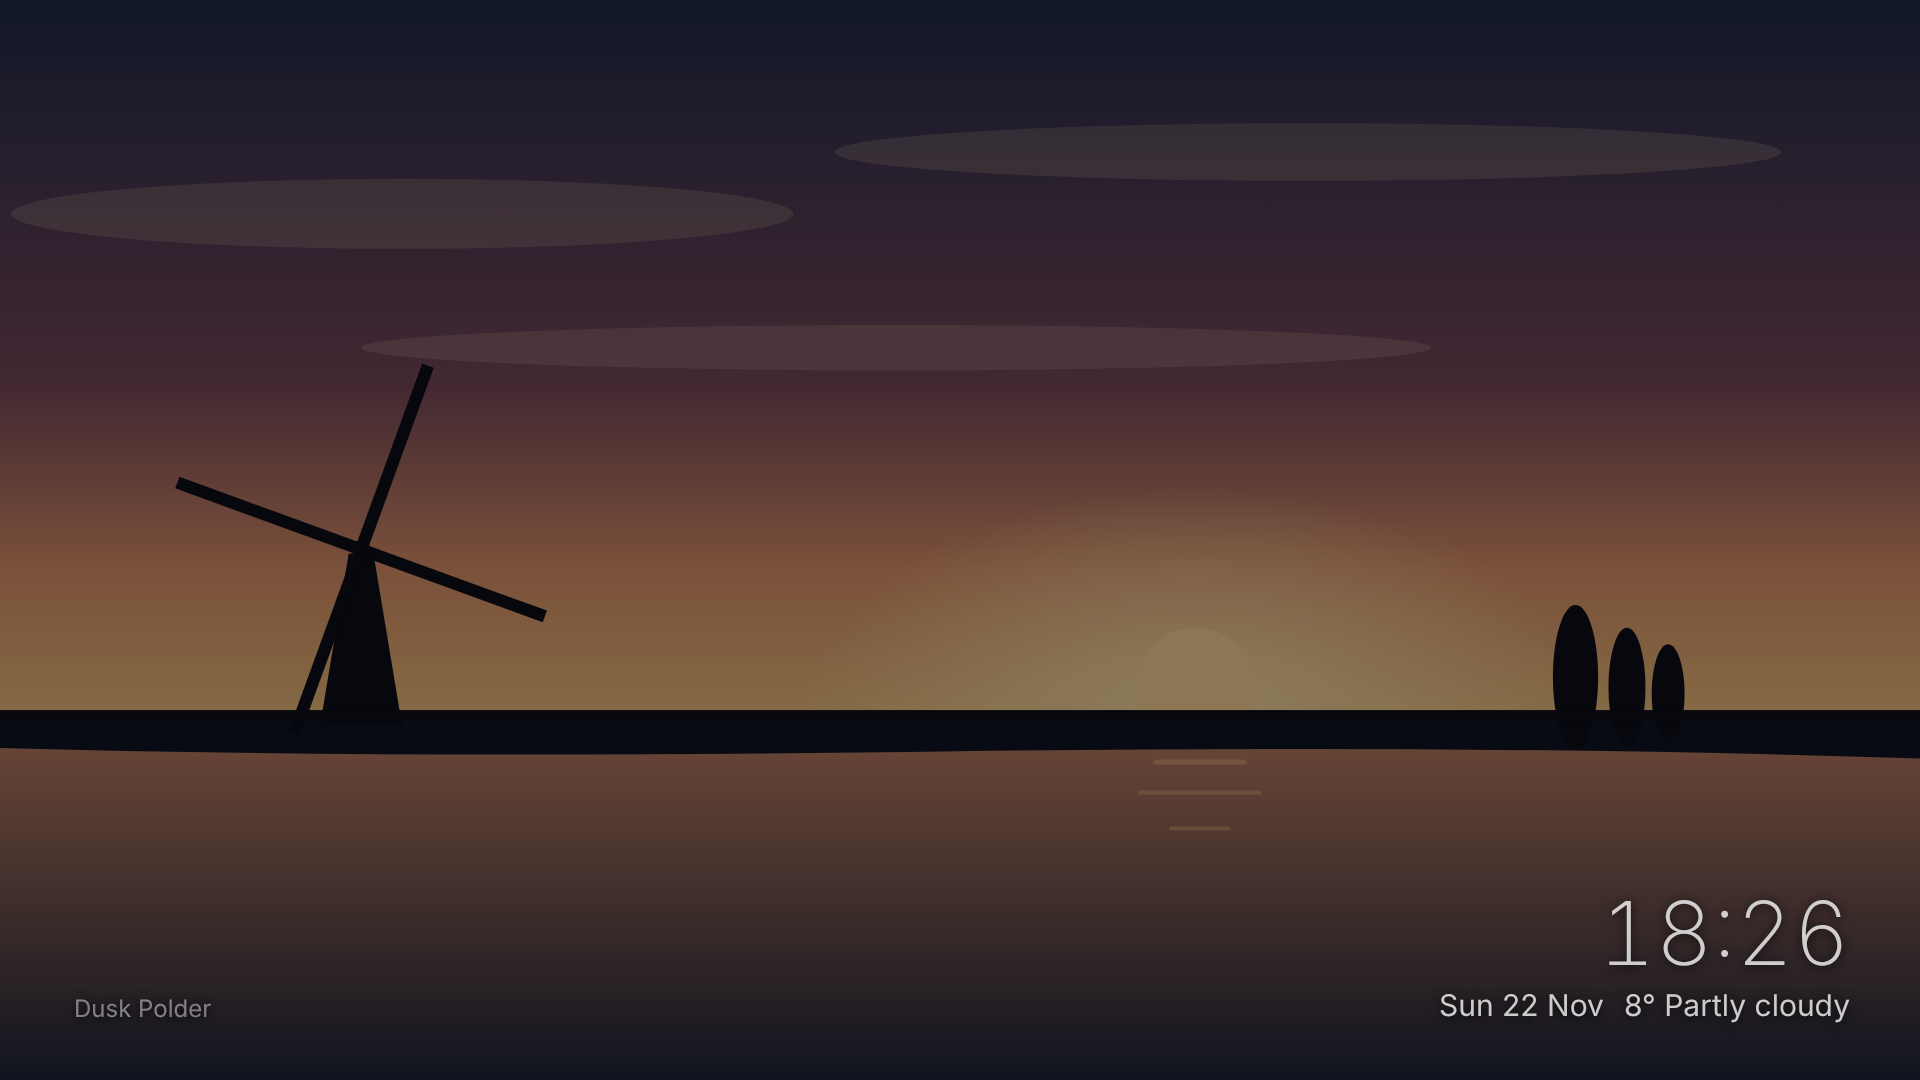
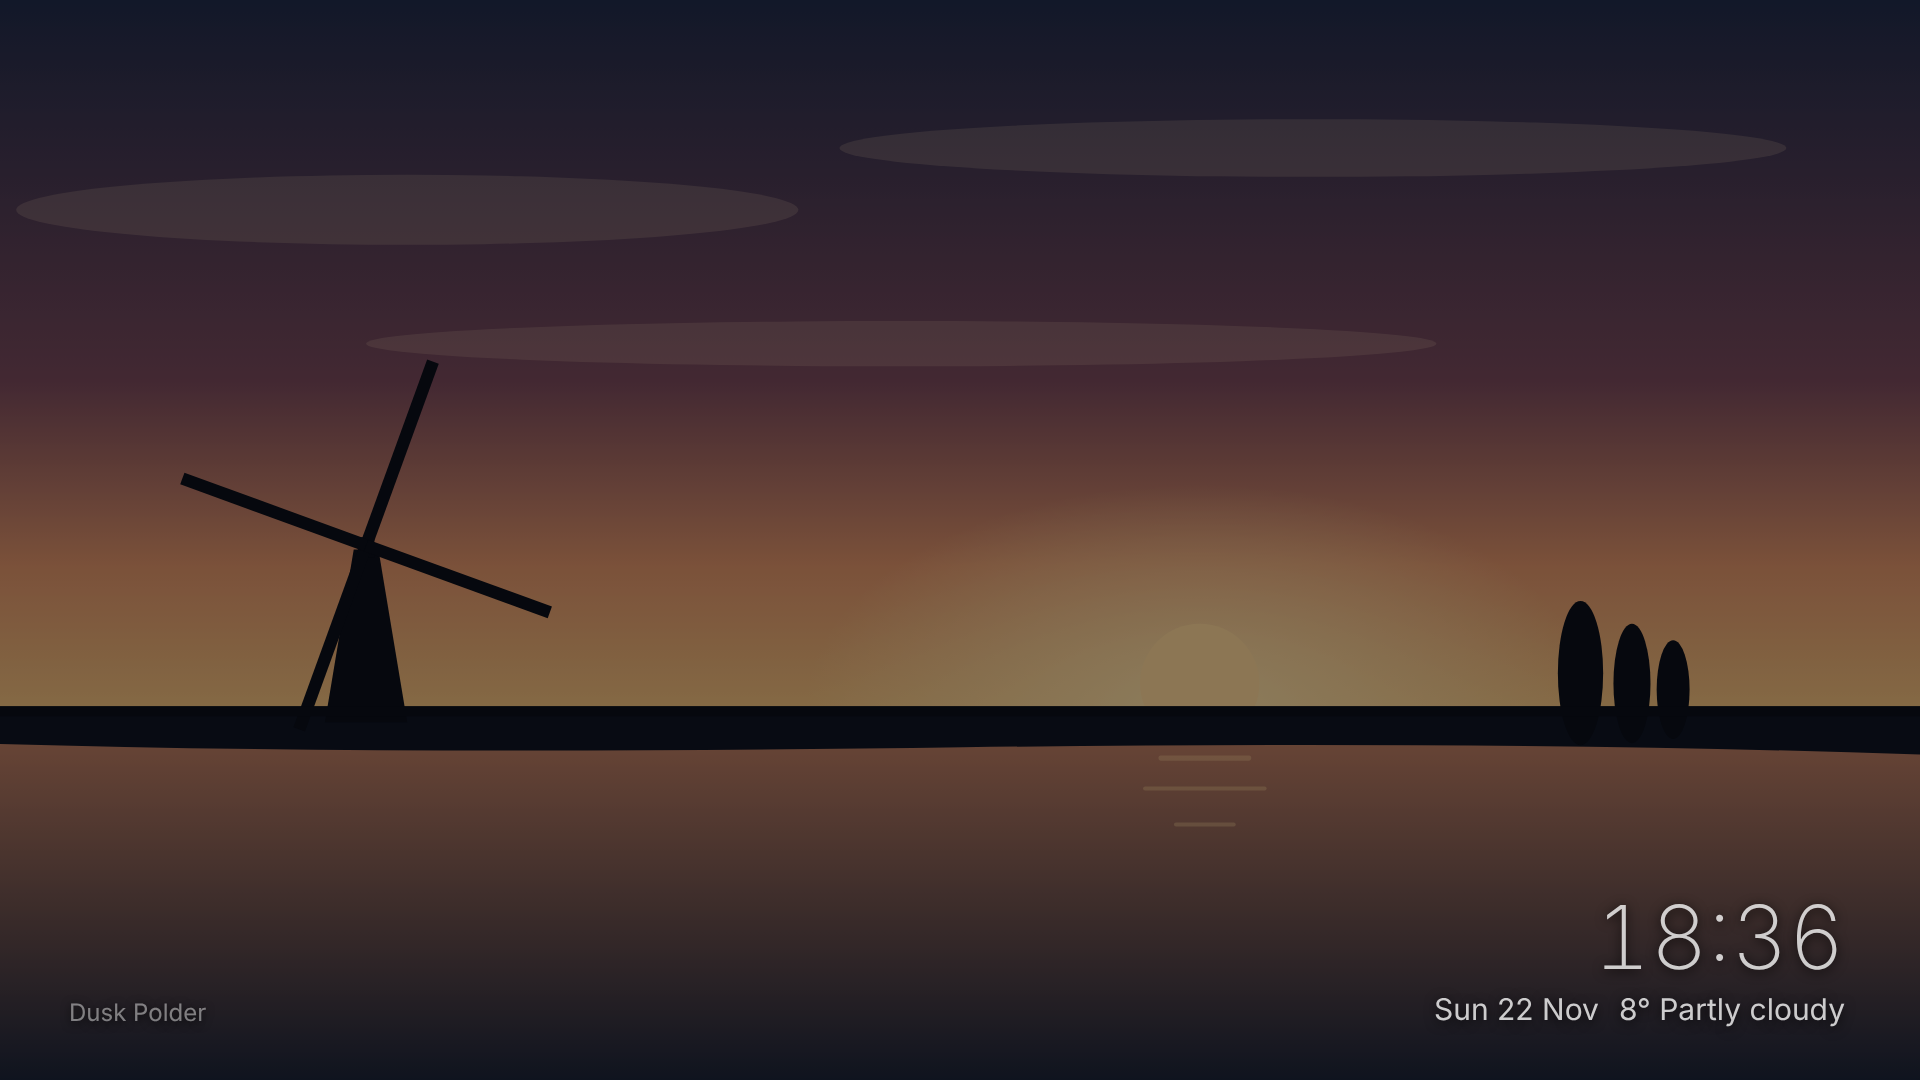
Support screen mirroring: scaled 1920x1080 stage, installable full-screen TV page
The TV mirrors screens rather than casting tabs, so the TV page must fill any
device screen. Adds a fixed stage scaled to fit, a web manifest with icons,
tap-to-fullscreen with landscape lock, a screen wake lock, and README steps
for an old Android phone host (Termux), Linux Miracast and HDMI.

Claude-Session: https://claude.ai/code/session_01BjtVTaiWrbP6wyBnvxZG4n

diff --git a/public/tv/tv.js b/public/tv/tv.js
@@ -209,7 +209,33 @@ document.addEventListener('keydown', (e) => {
   if (is(k, 'BACK')) e.preventDefault();   // don't let Back close the app/tab by accident
 });
 
-window.addEventListener('resize', () => notes.resize());
+// Scale the 1920x1080 stage to fit any screen: TV, laptop window or a phone being mirrored.
+function fitStage() {
+  const s = Math.min(innerWidth / 1920, innerHeight / 1080);
+  $('stage').style.transform = `scale(${s})`;
+  notes.resize();
+}
+window.addEventListener('resize', fitStage);
+fitStage();
+
+// ---------------- when a phone shows this page (to mirror it to the TV) ----------------
+// 1) First tap: go full screen and turn to landscape, so the mirrored image fills the TV.
+// 2) Wake lock: keep the phone screen on, because mirroring stops when the screen sleeps.
+//    (Wake lock only works on https or localhost, i.e. when the server runs on that phone.)
+if (matchMedia('(pointer: coarse)').matches) {
+  document.addEventListener('pointerdown', async () => {
+    if (document.fullscreenElement) return;
+    try {
+      await document.documentElement.requestFullscreen({ navigationUI: 'hide' });
+      await screen.orientation?.lock?.('landscape');
+    } catch { /* not allowed here: fine, the installed app is already full screen */ }
+  });
+}
+async function keepAwake() {
+  try { if (document.visibilityState === 'visible') await navigator.wakeLock?.request('screen'); } catch {}
+}
+document.addEventListener('visibilitychange', keepAwake);
+keepAwake();
 
 // ---------------- start ----------------
 tick();

diff --git a/public/tv/index.html b/public/tv/index.html
@@ -2,11 +2,18 @@
 <html lang="en">
 <head>
   <meta charset="utf-8">
-  <meta name="viewport" content="width=1920, initial-scale=1">
+  <meta name="viewport" content="width=device-width, initial-scale=1, minimum-scale=1, maximum-scale=1">
   <title>TV Dashboard</title>
   <link rel="stylesheet" href="tv.css">
+  <!-- Lets an Android phone install this page as a full-screen landscape app (for screen mirroring) -->
+  <link rel="manifest" href="manifest.webmanifest">
+  <link rel="icon" href="icon.svg">
+  <meta name="theme-color" content="#07090d">
+  <meta name="mobile-web-app-capable" content="yes">
 </head>
 <body class="mode-home">
+<!-- Everything is laid out on a fixed 1920x1080 stage that tv.js scales to fit the screen -->
+<div id="stage">
   <!-- HOME MODE ---------------------------------------------------------- -->
   <main id="home" class="home" aria-label="Home">
     <section class="clock" aria-live="off">
@@ -60,6 +67,7 @@
     </div>
   </section>
 
+</div>
   <script type="module" src="tv.js"></script>
 </body>
 </html>

diff --git a/public/tv/tv.css b/public/tv/tv.css
@@ -17,6 +17,14 @@ html, body {
   -webkit-font-smoothing: antialiased; cursor: none;
 }
 [hidden] { display: none !important; }
+body { background: #000; }   /* shows as bars if the screen is not 16:9 */
+
+/* Fixed 1920x1080 design canvas, centered and scaled by fitStage() in tv.js */
+#stage {
+  position: fixed; left: 50%; top: 50%;   /* fixed: never makes the page wider than the screen */
+  width: 1920px; height: 1080px; margin: -540px 0 0 -960px;
+  transform-origin: center center; overflow: hidden; background: var(--bg);
+}
 
 /* Glass panels. backdrop-filter is costly on weak TV chips, so the background
    behind them is a static gradient and the blur is modest. */

diff --git a/server/index.js b/server/index.js
@@ -18,7 +18,7 @@ const log = (...a) => console.log(new Date().toISOString().slice(11, 19), ...a);
 const TYPES = {
   '.html': 'text/html; charset=utf-8', '.css': 'text/css; charset=utf-8',
   '.js': 'text/javascript; charset=utf-8', '.mjs': 'text/javascript; charset=utf-8',
-  '.json': 'application/json', '.svg': 'image/svg+xml', '.png': 'image/png',
+  '.json': 'application/json', '.webmanifest': 'application/manifest+json', '.svg': 'image/svg+xml', '.png': 'image/png',
   '.jpg': 'image/jpeg', '.jpeg': 'image/jpeg', '.webp': 'image/webp', '.ico': 'image/x-icon',
 };
 const IMAGE_EXT = new Set(['.jpg', '.jpeg', '.png', '.webp', '.svg']);

diff --git a/README.md b/README.md
@@ -35,27 +35,36 @@ not load, your laptop firewall blocks port 3000. On Ubuntu: `sudo ufw allow 3000
 
 ## 2. Get it onto the TV (try in this order)
 
-### A. Cast a Chrome tab from the laptop (no hardware; your TV showed up as a Cast target)
-1. Open Chrome (or Chromium) on the laptop at `http://localhost:3000/tv/`.
-2. Menu (⋮) → **Cast…** → **Sources** → **Cast tab** → pick the TV.
-3. Press F11 in that tab so it is full screen at 1920x1080.
+The TV supports **screen mirroring** (it copies a whole device screen), not tab
+casting. So a device must show `/tv/` full screen, and you mirror that device.
+The page draws on a fixed 1920x1080 stage that scales to fit any screen.
 
-The laptop renders the page and the TV only shows it. The laptop must stay awake:
-`systemd-inhibit --what=idle:sleep --why="TV dashboard" npm start` keeps it up
-while the server runs.
+### A. Old Android phone = server + screen (zero cost, recommended)
+1. On the old phone, install **Termux** from F-Droid (not the Play Store version), then:
+   ```bash
+   pkg update && pkg install nodejs git
+   git clone -b claude/philips-tv-dashboard-8c6gga https://github.com/hadih963/Hadi.git
+   cd Hadi && npm install && npm start
+   ```
+2. In Chrome on that phone, open `http://localhost:3000/tv/` → ⋮ → **Add to Home screen / Install app**.
+   Open it from the new icon: it starts full screen in landscape. In a normal tab, tap once to go full screen.
+3. Swipe down → **Screen cast / Smart View / Mirror** → pick the TV.
+4. Keep it plugged in. Developer options → **Stay awake while charging** ON. In Termux, run `termux-wake-lock` so Android does not stop the server.
+5. Draw from your main phone at `http://<old-phone-ip>:3000/phone/`. Find the IP in Wi-Fi settings → network details.
 
-### B. An old Android phone as the always-on host (zero cost, try next)
-1. Install **Termux** from F-Droid, then `pkg install nodejs git`, clone the repo, `npm install`, `npm start`.
-2. In Chrome on that same phone, open `http://localhost:3000/tv/`. Use "Add to Home screen", which opens it full screen.
-3. Cast or mirror the phone screen to the TV (quick settings → Cast / Smart View / Screen cast).
-4. Keep it plugged in. Developer options → "Stay awake while charging".
+### B. Laptop mirroring (Linux, Miracast)
+Install **GNOME Network Displays** (`flatpak install flathub org.gnome.NetworkDisplays`),
+pick the TV, open `http://localhost:3000/tv/` in a browser and press F11. This needs a
+Wi-Fi card with Wi-Fi Direct support; many Intel cards have it.
 
-### C. Raspberry Pi kiosk (most reliable; buy only if A and B disappoint)
-Covered in a later phase: Chromium `--kiosk`, autostart, and HDMI-CEC on/off.
+### C. HDMI cable from the laptop
+Always works: plug in, choose the HDMI input on the TV, open `/tv/`, press F11.
 
-### D. Titan OS DevView (if Titan grants you partner access)
-Add `https://…/tv/` as a sandbox app in the Titan Partner Portal. It probably
-needs a public HTTPS URL, for example a Cloudflare Tunnel.
+### D. Raspberry Pi kiosk (only if A–C disappoint)
+Chromium `--kiosk`, autostart and HDMI-CEC on/off. Covered in a later phase.
+
+### E. Titan OS DevView (if Titan grants you partner access)
+Add the `/tv/` URL as a sandbox app in the Titan Partner Portal (probably needs public HTTPS).
 
 ## 3. Using it
 - **Phone:** Pen or Text tool, 8 colors, 4 brush sizes, Undo, Clear, Painting mode, Next painting.
@@ -107,7 +116,7 @@ added later if you want one.
 
 ## 7. Rollback / uninstall
 Nothing here touches the TV's firmware or settings.
-- **Cast:** stop casting in Chrome. The TV returns to its normal screen.
+- **Mirroring:** stop mirroring on the phone or laptop. The TV returns to its normal screen.
 - **Server:** Ctrl+C. Delete the folder to remove everything, including `data/state.json`.
 - **Firewall:** `sudo ufw delete allow 3000/tcp` if you opened it.
 - **Code:** every step is a git commit. `git log`, then `git checkout <commit>` to go back.

diff --git a/PROGRESS.md b/PROGRESS.md
@@ -27,6 +27,12 @@
   3 min, rotation, night dim), remote focus navigation. 5 automated tests pass;
   phone-to-TV drawing verified end to end in headless Chromium. Screenshots in screenshots/.
 
+- 2026-11-22: Correction from owner: the TV does **screen mirroring**, not Google Cast.
+  New primary route: old Android phone runs the server in Termux, shows /tv/ as an
+  installed full-screen app, and mirrors it. /tv/ now renders on a fixed 1920x1080 stage
+  scaled to any screen, adds a web manifest (full-screen landscape), tap-to-fullscreen
+  and a screen wake lock. Checked in headless Chromium at TV size and phone-landscape size.
+
 ## Owner answers (Phase 0)
 | Question | Answer |
 |---|---|
@@ -37,7 +43,7 @@
 | Spotify Premium | Yes |
 | Painting schedule | Manual ("when I choose it") |
 | Camera feedback | No |
-| TV visible as | Cast target |
+| TV visible as | Screen-mirroring target (not Google Cast) |
 
 ## On-TV checks the owner must do
 1. Settings > About: OS name (Titan OS or not), firmware.
@@ -45,7 +51,7 @@
 3. Laptop: `curl -k https://<TV_IP>:1926/6/system` and `curl http://<TV_IP>:1925/6/system`
    (read-only, harmless). Paste the output.
 4. Phone: Cast target: YES (done).
-5. Phase 2: cast the laptop tab (README section 2A) and report: does it appear,
+5. Phase 2: mirror an old phone running the dashboard (README section 2A) and report: does it appear,
    is text sharp, how big is the drawing lag, does the dashboard fill the screen
    (no black bars, nothing cut off at the edges)?
 6. Phase 2: draw on the phone while it shows on the TV.
